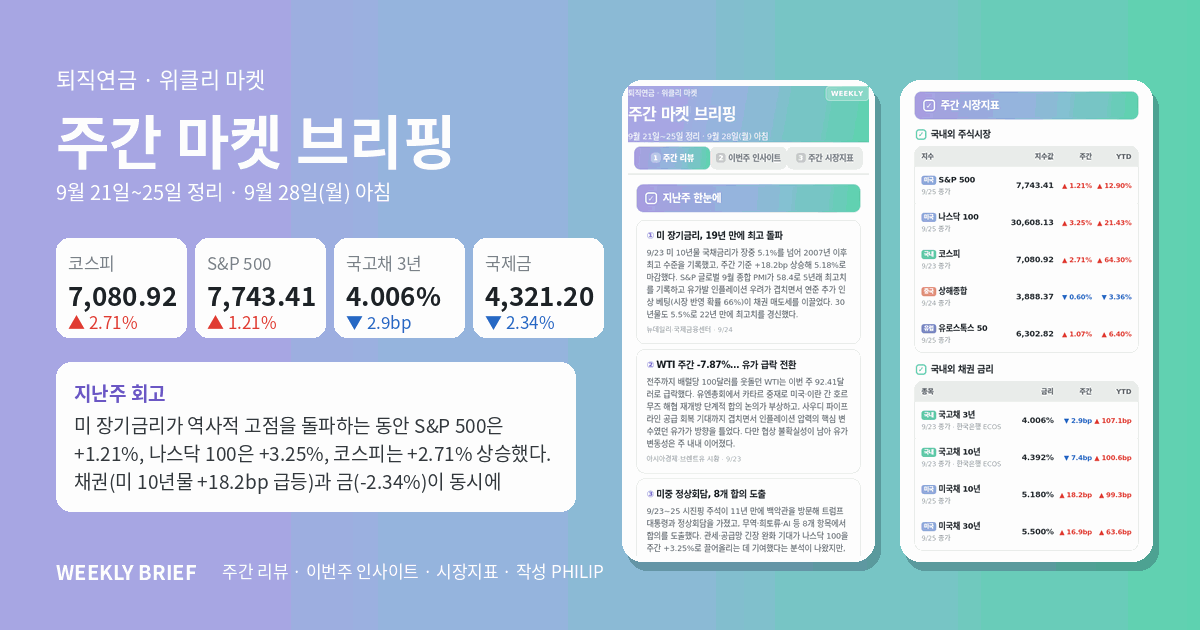
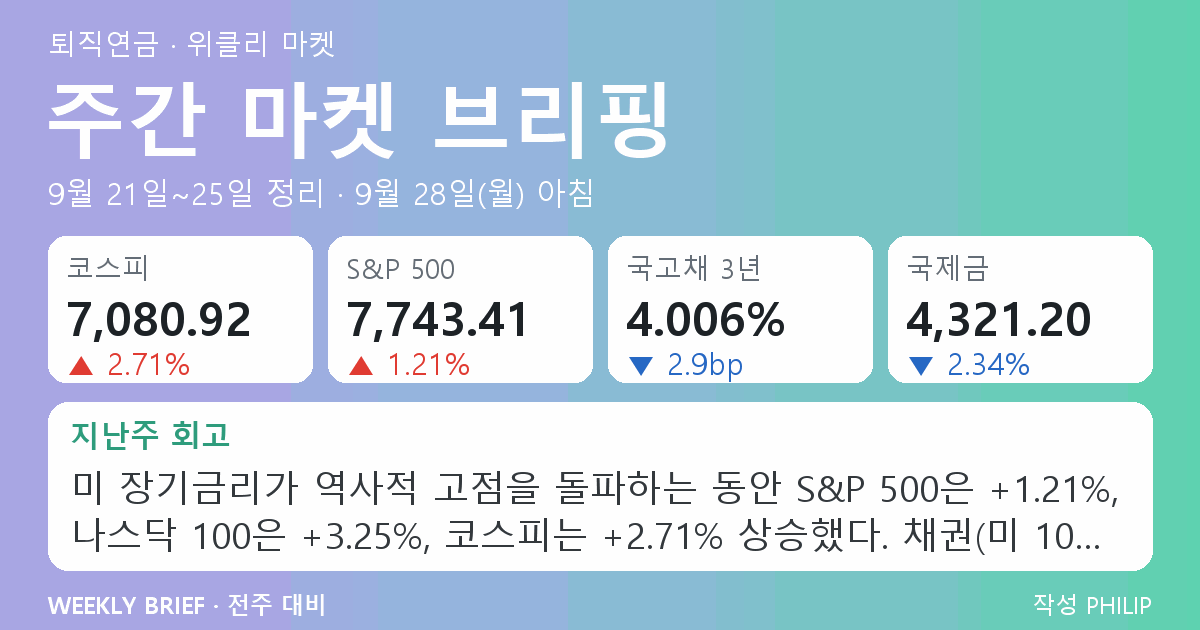
Use full-width daily thumbnail layout for weekly briefs

diff --git a/docs/weekly-2026-09-28.html b/docs/weekly-2026-09-28.html
@@ -11,14 +11,14 @@
 <meta property="og:title" content="주간 마켓 브리핑 | 9월 21일~25일 정리">
 <meta property="og:description" content="미 10년물 국채 금리 5.18%·30년물 5.5%로 급등한 한 주, S&amp;P 500은 +1.21%·나스닥 100은 +3.25% 상승. 이번 주는 9월 고용보고서와 ISM 제조업 지수가 금리 방향을 가른다.">
 <meta property="og:url" content="https://psyops42-art.github.io/market-brief/weekly-2026-09-28.html">
-<meta property="og:image" content="https://psyops42-art.github.io/market-brief/og-weekly-2026-09-28.png">
+<meta property="og:image" content="https://psyops42-art.github.io/market-brief/og-weekly-2026-09-28.png?v=summary2">
 <meta property="og:image:width" content="1200">
 <meta property="og:image:height" content="630">
 <meta property="og:image:alt" content="주간 마켓 브리핑 | 9월 21일~25일 정리">
 <meta name="twitter:card" content="summary_large_image">
 <meta name="twitter:title" content="주간 마켓 브리핑 | 9월 21일~25일 정리">
 <meta name="twitter:description" content="미 10년물 국채 금리 5.18%·30년물 5.5%로 급등한 한 주, S&amp;P 500은 +1.21%·나스닥 100은 +3.25% 상승. 이번 주는 9월 고용보고서와 ISM 제조업 지수가 금리 방향을 가른다.">
-<meta name="twitter:image" content="https://psyops42-art.github.io/market-brief/og-weekly-2026-09-28.png">
+<meta name="twitter:image" content="https://psyops42-art.github.io/market-brief/og-weekly-2026-09-28.png?v=summary2">
 <meta name="description" content="미 10년물 국채 금리 5.18%·30년물 5.5%로 급등한 한 주, S&amp;P 500은 +1.21%·나스닥 100은 +3.25% 상승. 이번 주는 9월 고용보고서와 ISM 제조업 지수가 금리 방향을 가른다.">
 <meta name="author" content="PHILIP">
 <style>

diff --git a/make_og_weekly.py b/make_og_weekly.py
@@ -1,171 +1,15 @@
 # -*- coding: utf-8 -*-
-"""
-주간 마켓 브리핑 OG 썸네일 — daily의 make_og.py를 3탭 구조에 맞게 조정.
-1페이지(주간 리뷰)와 3페이지(주간 시장지표)를 캡처해 카드에 배치합니다.
-render_weekly.py가 호출합니다. 단독 실행도 가능합니다.
-"""
-
-import os
-import shutil
-import subprocess
+"""주간 OG 썸네일: 일간과 같은 전체 폭 레이아웃, 주간 지표·회고 표시."""
 import sys
-import tempfile
-
-from PIL import Image, ImageDraw, ImageFont
-
-W, H = 1200, 630
-GRAD = [(175, 162, 230), (149, 182, 222), (95, 211, 176)]
-UP, DN, FL = (224, 59, 50), (38, 104, 196), (120, 129, 138)
-
-
-def font(size, bold=False):
-    path = f"/usr/share/fonts/opentype/noto/NotoSansCJK-{'Bold' if bold else 'Regular'}.ttc"
-    if os.path.exists(path):
-        return ImageFont.truetype(path, size)
-    try:
-        q = "Noto Sans CJK KR:bold" if bold else "Noto Sans CJK KR"
-        return ImageFont.truetype(
-            subprocess.check_output(["fc-match", "-f", "%{file}", q]).decode().strip(), size)
-    except Exception:                                             # noqa: BLE001
-        return ImageFont.load_default()
-
-
-def shoot(html_path, page, out_png, width=390):
-    src = html_path
-    if page != 1:
-        with open(html_path, encoding="utf-8") as fp:
-            s = fp.read()
-        s = (s.replace('<section class="pg on" id="p1">', '<section class="pg" id="p1">')
-              .replace(f'<section class="pg" id="p{page}">', f'<section class="pg on" id="p{page}">')
-              .replace("\ngo(1);", ""))
-        fd, src = tempfile.mkstemp(suffix=".html")
-        with os.fdopen(fd, "w", encoding="utf-8") as fp:
-            fp.write(s)
-    try:
-        if os.path.exists(out_png):
-            os.remove(out_png)
-        result = subprocess.run(["wkhtmltoimage", "--enable-local-file-access",
-                                 "--width", str(width), "--quality", "92",
-                                 "--javascript-delay", "600", os.path.abspath(src), os.path.abspath(out_png)],
-                                capture_output=True, text=True, timeout=90)
-        if result.returncode or not os.path.exists(out_png) or os.path.getsize(out_png) == 0:
-            raise RuntimeError(
-                f"캡처 실패({result.returncode}): {(result.stderr or result.stdout)[:300]}")
-    finally:
-        if page != 1 and os.path.exists(src):
-            os.unlink(src)
-
-
-def gradient():
-    bg = Image.new("RGB", (W, H))
-    d = ImageDraw.Draw(bg)
-    for x in range(W):
-        t = x / (W - 1)
-        if t < 0.42:
-            k, a, b = t / 0.42, GRAD[0], GRAD[1]
-        else:
-            k, a, b = (t - 0.42) / 0.58, GRAD[1], GRAD[2]
-        d.line([(x, 0), (x, H)], fill=tuple(int(a[i] + (b[i] - a[i]) * k) for i in range(3)))
-    return bg
-
-
-def phone(img, target_h):
-    r = target_h / img.size[1]
-    img = img.resize((int(img.size[0] * r), target_h), Image.LANCZOS)
-    pad = 6
-    card = Image.new("RGB", (img.size[0] + pad * 2, img.size[1] + pad * 2), (255, 255, 255))
-    card.paste(img, (pad, pad))
-    mask = Image.new("L", card.size, 0)
-    ImageDraw.Draw(mask).rounded_rectangle([0, 0, *[v - 1 for v in card.size]], radius=20, fill=255)
-    return card, mask
-
-
-def paste_shadow(base, card, mask, xy):
-    sh = Image.new("RGBA", base.size, (0, 0, 0, 0))
-    ImageDraw.Draw(sh).rounded_rectangle(
-        [xy[0] + 5, xy[1] + 8, xy[0] + card.size[0] + 5, xy[1] + card.size[1] + 8],
-        radius=20, fill=(20, 40, 60, 70))
-    base.paste(Image.alpha_composite(base.convert("RGBA"), sh).convert("RGB"), (0, 0))
-    base.paste(card, xy, mask)
-
-
-def wrap(text, f, max_w, d, limit=3):
-    lines, cur = [], ""
-    for word in text.split():
-        trial = (cur + " " + word).strip()
-        if d.textlength(trial, font=f) <= max_w:
-            cur = trial
-        else:
-            if cur:
-                lines.append(cur)
-            cur = word
-            if len(lines) == limit:
-                break
-    if cur and len(lines) < limit:
-        lines.append(cur)
-    return lines
 
 
 def build(html_path, out_png, date_line, kpis, retro_text, tmpdir=None):
-    owned_tmp = tmpdir is None
-    tmpdir = tmpdir or tempfile.mkdtemp()
-    p1, p3 = os.path.join(tmpdir, "_wp1.png"), os.path.join(tmpdir, "_wp3.png")
-    shoot(html_path, 1, p1)
-    shoot(html_path, 3, p3)
-
-    bg = gradient()
-    im1 = Image.open(p1).convert("RGB").crop((0, 0, 390, min(760, Image.open(p1).size[1])))
-    im3 = Image.open(p3).convert("RGB")
-    im3 = im3.crop((0, 150, 390, min(910, im3.size[1])))
-    f1, m1 = phone(im1, 470)
-    f3, m3 = phone(im3, 470)
-    paste_shadow(bg, f1, m1, (622, 80))
-    paste_shadow(bg, f3, m3, (900, 80))
-
-    d = ImageDraw.Draw(bg)
-    d.text((56, 62), "퇴직연금 · 위클리 마켓", font=font(22), fill=(255, 255, 255))
-    d.text((56, 96), "주간 마켓 브리핑", font=font(58, True), fill=(255, 255, 255))
-
-    fd = font(20)
-    for size in (20, 19, 18, 17):
-        fd = font(size)
-        if d.textlength(date_line, font=fd) <= 545:
-            break
-    d.text((56, 176), date_line, font=fd, fill=(255, 255, 255))
-
-    x0, y0, bw, bh, gap = 56, 238, 131, 100, 8
-    for i, (label, value, chg, direction) in enumerate(kpis[:4]):
-        x = x0 + i * (bw + gap)
-        mk = Image.new("L", (bw, bh), 0)
-        ImageDraw.Draw(mk).rounded_rectangle([0, 0, bw - 1, bh - 1], radius=13, fill=255)
-        bg.paste(Image.new("RGB", (bw, bh), (255, 255, 255)), (x, y0), mk)
-        d.text((x + 12, y0 + 12), label, font=font(17), fill=(120, 129, 138))
-        d.text((x + 12, y0 + 37), value, font=font(26, True), fill=(29, 34, 38))
-        d.text((x + 12, y0 + 71), chg, font=font(17), fill={"up": UP, "dn": DN}.get(direction, FL))
-
-    bx, by, bw2, bh2 = 56, 362, 520, 150
-    mk = Image.new("L", (bw2, bh2), 0)
-    ImageDraw.Draw(mk).rounded_rectangle([0, 0, bw2 - 1, bh2 - 1], radius=15, fill=255)
-    bg.paste(Image.new("RGB", (bw2, bh2), (255, 255, 255)), (bx, by), mk)
-    d.text((bx + 18, by + 16), "지난주 회고", font=font(19, True), fill=(107, 87, 196))
-    fb = font(19)
-    plain = retro_text.replace("<b>", "").replace("</b>", "") or "이번 주 시장을 정리했습니다."
-    for i, line in enumerate(wrap(plain, fb, bw2 - 36, d, limit=3)):
-        d.text((bx + 18, by + 48 + i * 28), line, font=fb, fill=(51, 56, 61))
-
-    d.text((56, 556), "WEEKLY BRIEF", font=font(20, True), fill=(255, 255, 255))
-    d.text((222, 558), "주간 리뷰 · 이번주 인사이트 · 시장지표 · 작성 PHILIP",
-           font=font(17), fill=(255, 255, 255))
-
-    bg.save(out_png)
-    with Image.open(out_png) as rendered:
-        rendered.convert("RGB").quantize(colors=220, method=2).save(out_png, optimize=True)
-    for f_ in (p1, p3):
-        if os.path.exists(f_):
-            os.remove(f_)
-    if owned_tmp:
-        shutil.rmtree(tmpdir, ignore_errors=True)
-    return out_png
+    from make_og import build as build_summary
+    return build_summary(
+        html_path, out_png, date_line, kpis,
+        retro_text or "이번 주 시장을 정리했습니다.", tmpdir,
+        eyebrow="퇴직연금 · 위클리 마켓", title="주간 마켓 브리핑",
+        summary_label="지난주 회고", footer_label="WEEKLY BRIEF · 전주 대비")
 
 
 if __name__ == "__main__":

diff --git a/make_og.py b/make_og.py
@@ -72,15 +72,17 @@ def wrap(text, f, max_w, draw, limit=3):
     return lines
 
 
-def build(html_path, out_png, date_line, kpis, oneline, tmpdir=None):
+def build(html_path, out_png, date_line, kpis, oneline, tmpdir=None, *,
+          eyebrow="퇴직연금 · 데일리 마켓", title="글로벌 마켓 브리핑",
+          summary_label="오늘의 한 줄", footer_label="MORNING BRIEF"):
     """Keep the renderer call signature; no dashboard screenshots are needed."""
     import html
     import re
     bg = gradient()
     d = ImageDraw.Draw(bg)
     white = (255, 255, 255)
-    d.text((48, 24), "퇴직연금 · 데일리 마켓", font=font(28), fill=white)
-    d.text((44, 62), "글로벌 마켓 브리핑", font=font(82, True), fill=white)
+    d.text((48, 24), eyebrow, font=font(28), fill=white)
+    d.text((44, 62), title, font=font(82, True), fill=white)
     d.text((48, 172), date_line, font=fit_font(date_line, 30, 1104, d), fill=white)
 
     width, gap, top, height = 264, 16, 236, 146
@@ -94,12 +96,12 @@ def build(html_path, out_png, date_line, kpis, oneline, tmpdir=None):
                font=fit_font(change, 30, width - 36, d), fill={"up": UP, "dn": DN}.get(direction, FL))
 
     d.rounded_rectangle((48, 402, 1152, 570), radius=20, fill=white)
-    d.text((70, 414), "오늘의 한 줄", font=font(30, True), fill=(46, 156, 124))
+    d.text((70, 414), summary_label, font=font(30, True), fill=(46, 156, 124))
     plain = html.unescape(re.sub(r"<[^>]*>", "", str(oneline)))
     f = font(36)
     for i, line in enumerate(wrap(plain, f, 1060, d, limit=2)):
         d.text((70, 462 + i * 47), line, font=f, fill=(51, 56, 61))
-    d.text((48, 588), "MORNING BRIEF", font=font(23, True), fill=white)
+    d.text((48, 588), footer_label, font=font(23, True), fill=white)
     footer = "작성 PHILIP"
     d.text((1152 - d.textlength(footer, font=font(23)), 588), footer, font=font(23), fill=white)
     bg.quantize(colors=220, method=2).save(out_png, optimize=True)

diff --git a/tests/test_thumbnail.py b/tests/test_thumbnail.py
@@ -1,5 +1,6 @@
 import importlib.util
 import tempfile
+import sys
 import unittest
 from pathlib import Path
 from unittest import mock
@@ -14,6 +15,23 @@ spec.loader.exec_module(thumbnail)
 
 
 class ThumbnailTests(unittest.TestCase):
+    def test_weekly_uses_full_width_layout_without_screenshots(self):
+        weekly_spec = importlib.util.spec_from_file_location(
+            "weekly_thumbnail", Path(__file__).resolve().parents[1] / "make_og_weekly.py")
+        weekly = importlib.util.module_from_spec(weekly_spec)
+        weekly_spec.loader.exec_module(weekly)
+        with tempfile.TemporaryDirectory() as folder, mock.patch.dict(sys.modules, {"make_og": thumbnail}):
+            output = Path(folder) / "weekly.png"
+            with mock.patch.object(thumbnail, "build", wraps=thumbnail.build) as build:
+                weekly.build("missing.html", output, "9월 21일~25일 정리",
+                             [("코스피", "7,080.92", "▲2.71%", "up")] * 4,
+                             "지난주 시장 회고 " * 30)
+            self.assertEqual(build.call_args.kwargs["title"], "주간 마켓 브리핑")
+            self.assertEqual(build.call_args.kwargs["summary_label"], "지난주 회고")
+            with Image.open(output) as image:
+                self.assertEqual(image.size, (1200, 630))
+                image.verify()
+
     def test_build_without_html_or_screenshot_tool(self):
         with tempfile.TemporaryDirectory() as folder:
             output = Path(folder) / "og.png"

diff --git a/render_weekly.py b/render_weekly.py
@@ -295,7 +295,7 @@ def main():
                 .replace("{{TITLE}}", html.escape(title))
                 .replace("{{OG_DESC}}", html.escape(str(brief.get("og_description", ""))))
                 .replace("{{OG_URL}}", f"{args.base}/{slug}.html")
-                .replace("{{OG_IMAGE}}", f"{args.base}/og-{slug}.png")
+                .replace("{{OG_IMAGE}}", f"{args.base}/og-{slug}.png?v=summary2")
                 .replace("{{DATE_LINE}}", date_line)
                 .replace("{{LAST_WEEK_NEWS}}", news)
                 .replace("{{MVP_CARD}}", mvp)
@@ -318,7 +318,7 @@ def main():
         fp.write(out_html)
     print(f"  · 대시보드 → {path}")
 
-    # ── OG 썸네일 : 1·3페이지(리뷰+지표) 실제 화면을 캡처해 합성 ──
+    # ── OG 썸네일 : 제목·주간 지표·회고를 전체 폭으로 배치 ──
     og_ok, og_error = False, ""
     try:
         import make_og_weekly

diff --git a/README.md b/README.md
@@ -225,3 +225,5 @@ Public 저장소에 키가 커밋되면 즉시 유출됩니다.
 데일리 고정 공유 주소: https://psyops42-art.github.io/market-brief/daily.html
 매일 같은 파일을 최신 브리핑으로 교체합니다. 날짜별 파일은 아카이브에 보관하고,
 알림·실행 요약은 고정 주소를 사용합니다. GitHub 예약 실행은 지연될 수 있습니다.
+
+주간 썸네일도 동일한 전체 폭 레이아웃을 사용하며, 주간 제목·기간·핵심 지표 4개(전주 대비)·지난주 회고를 표시합니다. `make_og_weekly.py`는 `make_og.py`의 공통 레이아웃을 사용합니다. 긴 회고는 두 줄 뒤 말줄임으로 표시하고 전문은 본문에 유지합니다.
